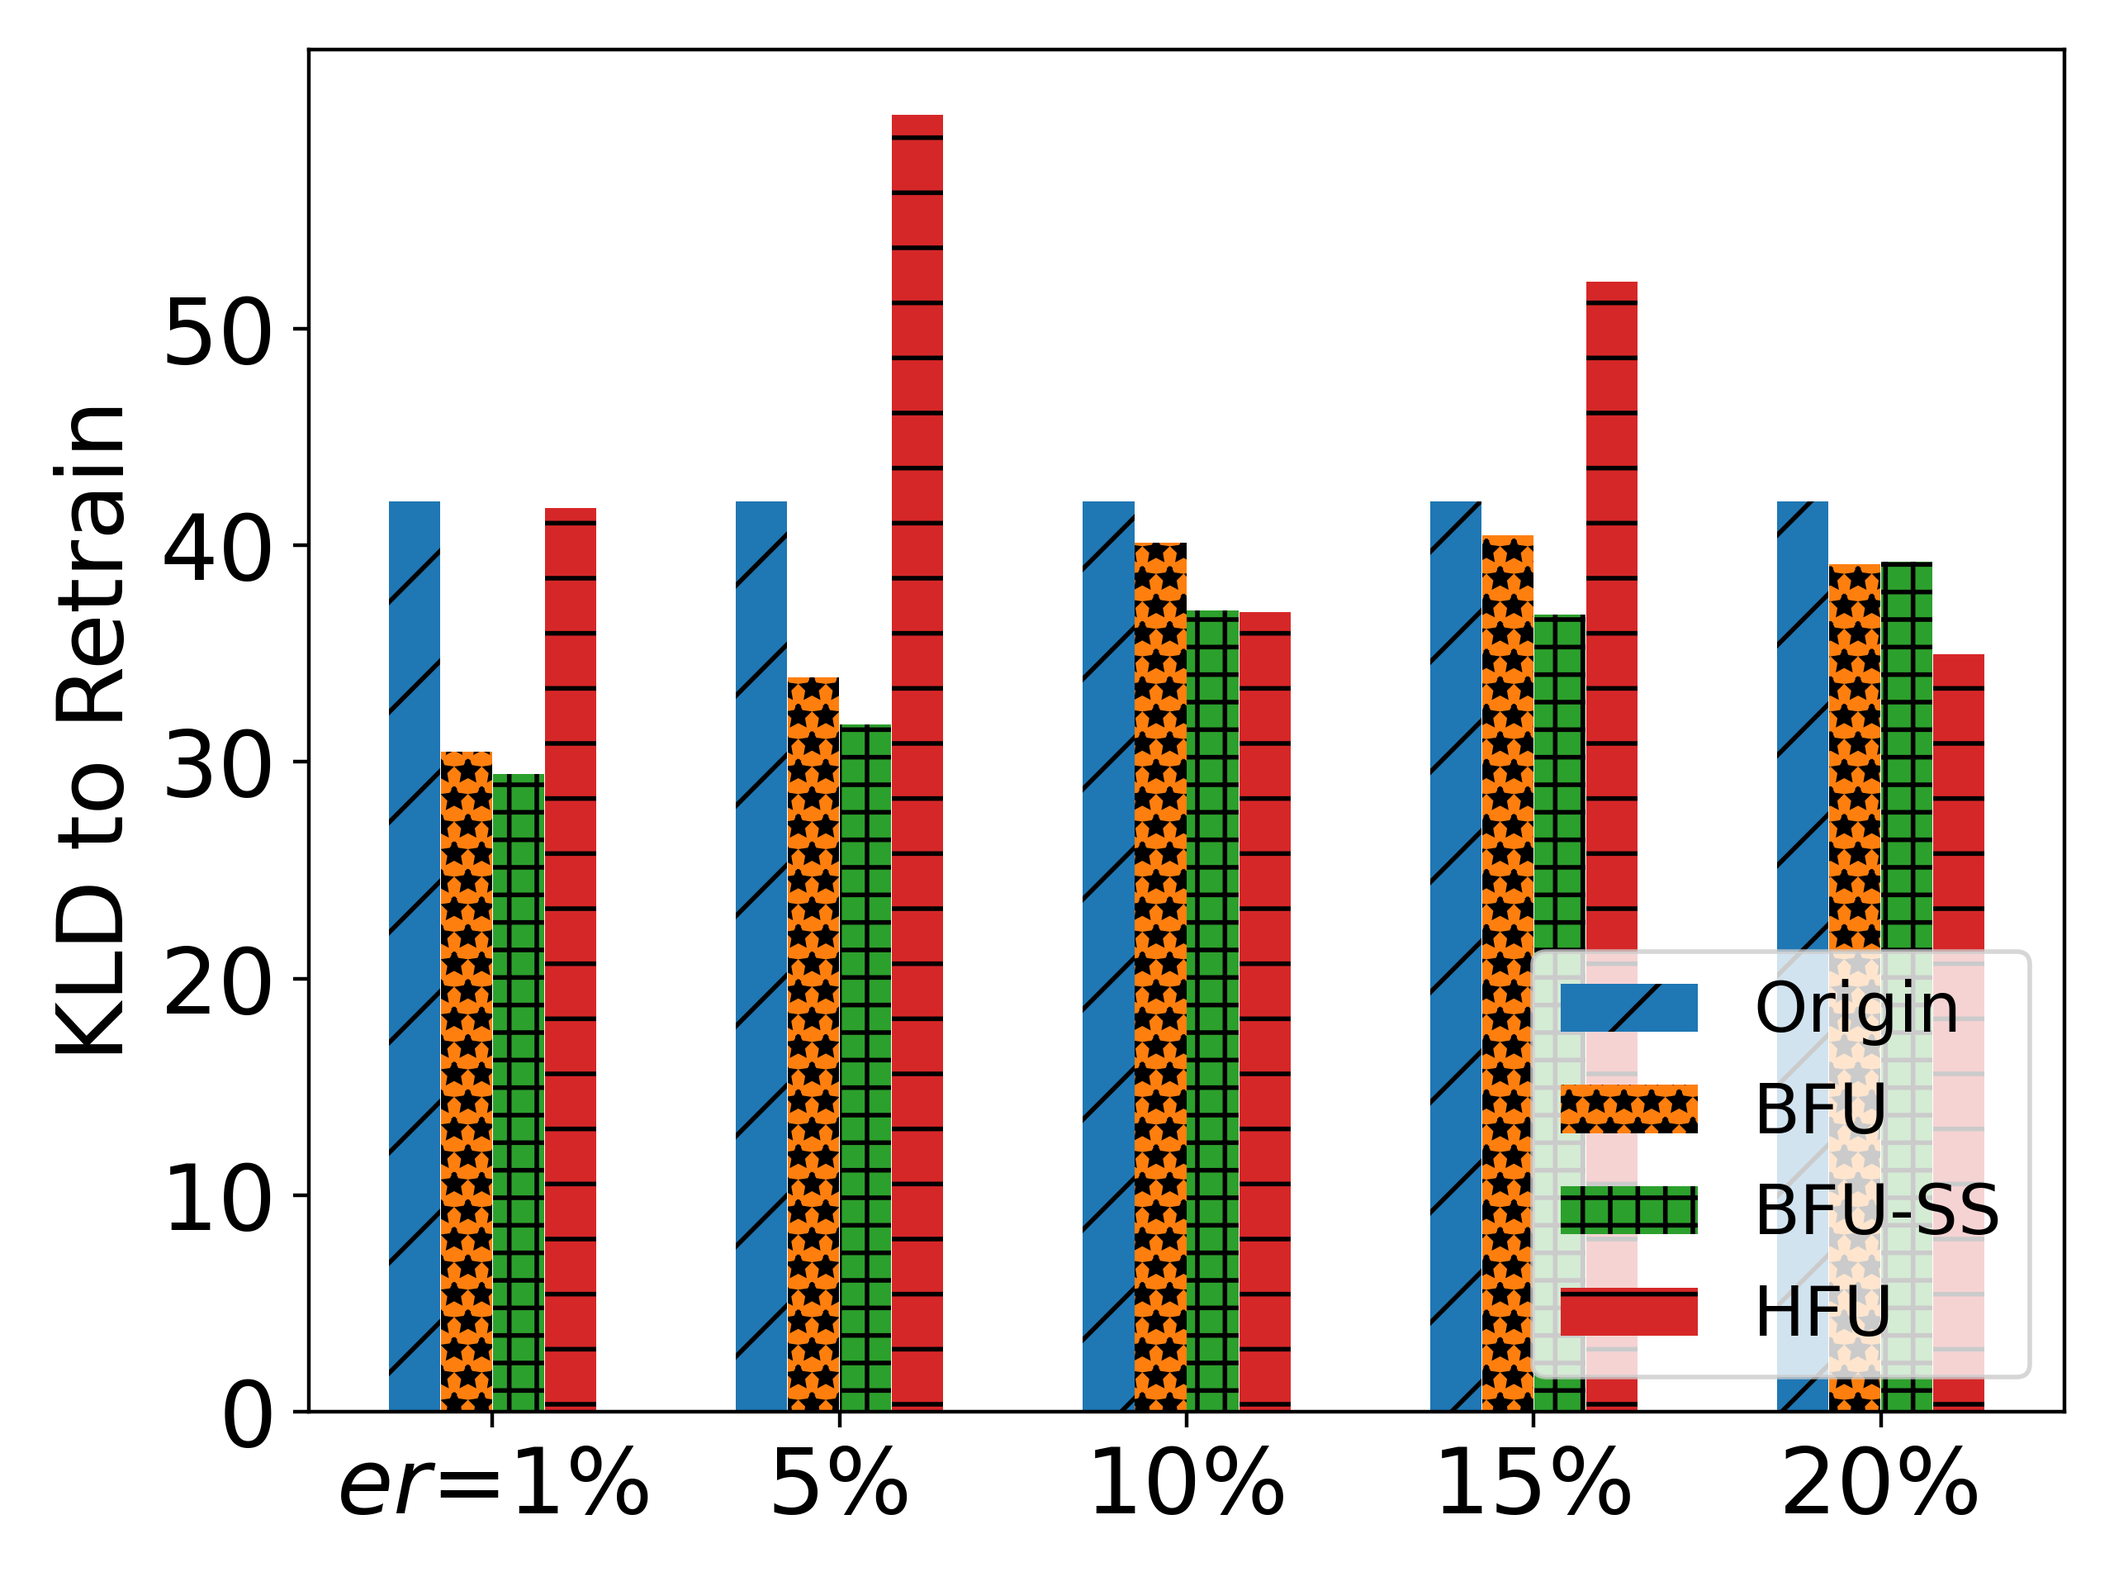
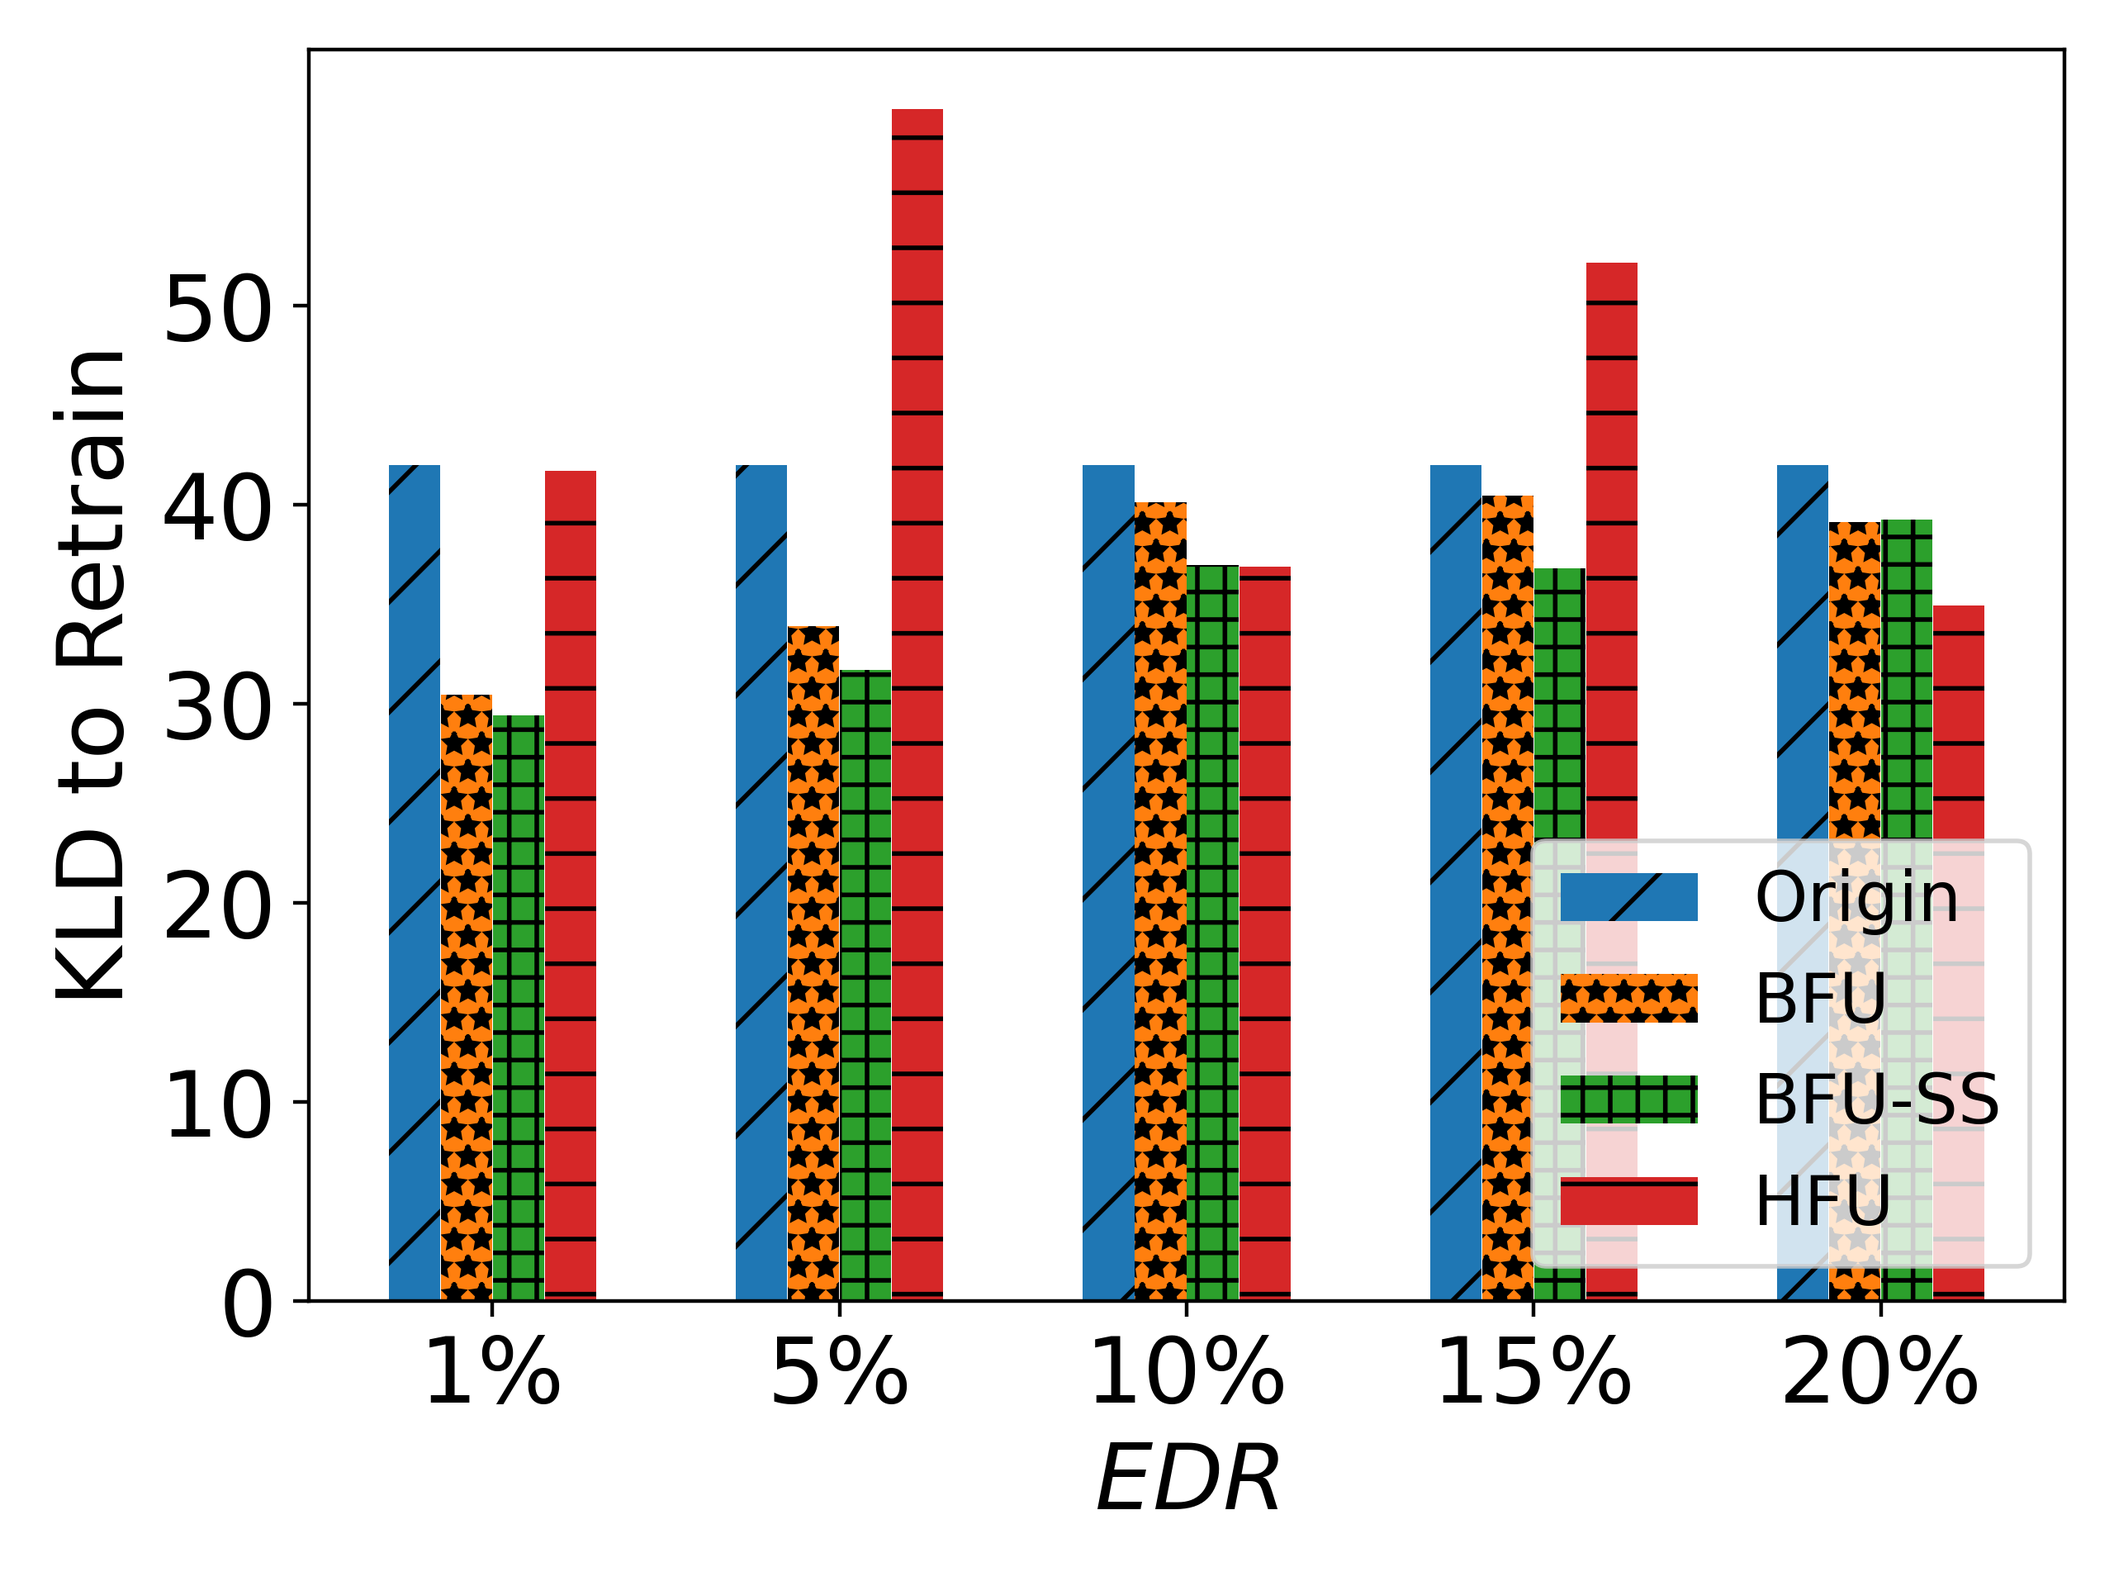
update

diff --git a/Experiment_results/MNIST/client/mnist_client_rt_er_bar.py b/Experiment_results/MNIST/client/mnist_client_rt_er_bar.py
@@ -2,11 +2,11 @@ import matplotlib.pyplot as plt
 import numpy as np
 
 # user num = 50
-labels = ['$er$=1%', '5%', '10%', '15%', '20%']
-unl_fr = [1*10, 1*10, 1*10, 1*10, 1*10]
-unl_br = [0.01*6, 0.05*10, 0.1*4, 0.15*4, 0.2*3]
-unl_self_r = [0.02*7, 0.1*10, 0.2*4, 0.3*4, 0.4*3]
-unl_hess_r = [1*3,  1*8, 9, 10, 10]
+labels = ['1%', '5%', '10%', '15%', '20%']
+unl_fr = [1*10*0.22, 1*10*0.22, 1*10*0.22, 1*10*0.22, 1*10*0.22]
+unl_br = [0.01*6*0.22, 0.05*10*0.22, 0.1*4*0.22, 0.15*4*0.22, 0.2*3*0.22]
+unl_self_r = [0.02*7*0.22, 0.1*10*0.22, 0.2*4*0.22, 0.3*4*0.22, 0.4*3*0.22]
+unl_hess_r = [1*3*0.22,  1*8*0.22, 9*0.22, 10*0.22, 10*0.22]
 
 x = np.arange(len(labels))  # the label locations
 width = 0.6  # the width of the bars
@@ -21,17 +21,17 @@ plt.bar(x - width / 8, unl_br, width=0.148, label='BFU', hatch='**')
 plt.bar(x + width / 8, unl_self_r, width=0.148, label='BFU-SS', hatch='++')
 plt.bar(x + width / 2 - width / 8, unl_hess_r, width=0.148, label='HFU', hatch='-')
 # Add some text for labels, title and custom x-axis tick labels, etc.
-plt.ylabel('Running Time', fontsize=20)
+plt.ylabel('Running Time (s)', fontsize=20)
 # ax.set_title('Performance of Different Users n')
 plt.xticks(x, labels, fontsize=20)
 # ax.set_xticklabels(labels,fontsize=15)
 
-my_y_ticks = np.arange(0, 11, 1)
+my_y_ticks = np.arange(0, 3, 0.5)
 plt.yticks(my_y_ticks, fontsize=20)
 # ax.set_yticklabels(my_y_ticks,fontsize=15)
 
 plt.legend(loc='upper right', fontsize=15)
-
+plt.xlabel('$\it{EDR}$' ,fontsize=20)
 # ax.bar_label(rects1, padding=1)
 # ax.bar_label(rects2, padding=3)
 # ax.bar_label(rects3, padding=3)

diff --git a/Experiment_results/MNIST/Server_runtime/mnist_rt_er_bar.py b/Experiment_results/MNIST/Server_runtime/mnist_rt_er_bar.py
@@ -2,11 +2,11 @@ import matplotlib.pyplot as plt
 import numpy as np
 
 # user num = 50
-labels = ['$er$=1%', '5%', '10%', '15%', '20%']
-unl_fr = [10, 10, 10, 10, 10]
-unl_br = [10, 9, 7, 4, 2]
-unl_self_r = [10, 9, 6, 4, 2]
-unl_hess_r = [9,  9, 9, 10, 5]
+labels = ['1%', '5%', '10%', '15%', '20%']
+unl_fr = [10*10*0.22 , 10*10*0.22, 10*10*0.22 , 10*10*0.22 , 10*10*0.22 ]
+unl_br = [10*10*0.22 , 9*10*0.22, 7*10*0.22, 4*10*0.22, 2*10*0.22]
+unl_self_r = [10*10*0.22, 9*10*0.22, 6*10*0.22, 4*10*0.22, 2*10*0.22]
+unl_hess_r = [9*10*0.22,  9*10*0.22, 9*10*0.22, 8*10*0.22, 5*10*0.22]
 
 x = np.arange(len(labels))  # the label locations
 width = 0.6  # the width of the bars
@@ -21,17 +21,17 @@ plt.bar(x - width / 8, unl_br, width=0.148, label='BFU', hatch='**')
 plt.bar(x + width / 8, unl_self_r, width=0.148, label='BFU-SS', hatch='++')
 plt.bar(x + width / 2 - width / 8, unl_hess_r, width=0.148, label='HFU', hatch='-')
 # Add some text for labels, title and custom x-axis tick labels, etc.
-plt.ylabel('Running Time', fontsize=20)
+plt.ylabel('Running Time (s)', fontsize=20)
 # ax.set_title('Performance of Different Users n')
 plt.xticks(x, labels, fontsize=20)
 # ax.set_xticklabels(labels,fontsize=15)
 
-my_y_ticks = np.arange(0, 11, 1)
+my_y_ticks = np.arange(0, 26, 4)
 plt.yticks(my_y_ticks, fontsize=20)
 # ax.set_yticklabels(my_y_ticks,fontsize=15)
 
-plt.legend(loc='upper right', fontsize=15)
-
+plt.legend(loc='lower left', fontsize=15)
+plt.xlabel('$\it{EDR}$' ,fontsize=20)
 # ax.bar_label(rects1, padding=1)
 # ax.bar_label(rects2, padding=3)
 # ax.bar_label(rects3, padding=3)

diff --git a/Experiment_results/MNIST/client/mnist_client_ur/mnist_client_rt_ur_bar.py b/Experiment_results/MNIST/client/mnist_client_ur/mnist_client_rt_ur_bar.py
@@ -2,12 +2,12 @@ import matplotlib.pyplot as plt
 import numpy as np
 
 # user num = 50
-labels = ['$\\beta$ = 0.1', '$\\beta$ = 0.5', '$\\beta$ = 1', '$\\beta$ = 1.5', '$\\beta$ = 2']
+labels = ['0.1', '0.5', '1', '1.5', '2']
 
-unl_fr = [1*10, 1*10, 1*10, 1*10, 1*10]
-unl_br = [0.1*4, 0.1*5, 0.1*5, 0.1*4, 0.1*5]
-unl_self_r = [0.2*4, 0.2*6, 0.2*7, 0.2*5, 0.2*6]
-unl_hess_r = [1*2,  1*2, 2, 2, 2]
+unl_fr = [10*0.22, 1*10*0.22, 1*10*0.22, 1*10*0.22, 1*10*0.22]
+unl_br = [0.1*3*0.22, 0.1*5*0.22, 0.1*5*0.22, 0.1*4*0.22, 0.1*5*0.22]
+unl_self_r = [0.2*3*0.22, 0.2*6*0.22, 0.2*7*0.22, 0.2*5*0.22, 0.2*6*0.22]
+unl_hess_r = [1*2*0.22,  1*2*0.22, 2*0.22, 2*0.22, 2*0.22]
 
 x = np.arange(len(labels))  # the label locations
 width = 0.6  # the width of the bars
@@ -22,15 +22,15 @@ plt.bar(x - width / 8, unl_br, width=0.148, label='BFU', hatch='**')
 plt.bar(x + width / 8, unl_self_r, width=0.148, label='BFU-SS', hatch='++')
 plt.bar(x + width / 2 - width / 8, unl_hess_r, width=0.148, label='HFU', hatch='-')
 # Add some text for labels, title and custom x-axis tick labels, etc.
-plt.ylabel('Running Time', fontsize=20)
+plt.ylabel('Running Time (s)', fontsize=20)
 # ax.set_title('Performance of Different Users n')
 plt.xticks(x, labels, fontsize=20)
 # ax.set_xticklabels(labels,fontsize=15)
 
-my_y_ticks = np.arange(0, 11, 1)
+my_y_ticks = np.arange(0, 3, 0.5)
 plt.yticks(my_y_ticks, fontsize=20)
 # ax.set_yticklabels(my_y_ticks,fontsize=15)
-
+plt.xlabel('$\\beta$' ,fontsize=20)
 plt.legend(loc='upper right', fontsize=15)
 
 # ax.bar_label(rects1, padding=1)

diff --git a/Experiment_results/MNIST/Server_runtime/mnist_rt_ur_bar.py b/Experiment_results/MNIST/Server_runtime/mnist_rt_ur_bar.py
@@ -2,10 +2,10 @@ import matplotlib.pyplot as plt
 import numpy as np
 
 # user num = 50
-labels = ['$\\beta$ = 0.1', '$\\beta$ = 0.5', '$\\beta$ = 1', '$\\beta$ = 1.5', '$\\beta$ = 2']
-unl_fr = [10, 10, 10, 10, 10]
-unl_br = [7, 5, 5, 3, 2, ]
-unl_self_r = [6, 4, 4, 3, 2]
+labels = ['0.1', '0.5', '1', '1.5', '2']
+unl_fr = [10*10*0.22, 10*10*0.22, 10*10*0.22, 10*10*0.22, 10*10*0.22]
+unl_br = [7*10*0.22, 5*10*0.22, 5*10*0.22, 3*10*0.22, 2*10*0.22, ]
+unl_self_r = [6*10*0.22, 4*10*0.22, 4*10*0.22, 3*10*0.22, 2*10*0.22]
 # unl_hess_r = [,  3, 9, 10]
 
 x = np.arange(len(labels))  # the label locations
@@ -21,17 +21,17 @@ plt.bar(x - 0, unl_br, width=0.148, label='BFU', hatch='**')
 plt.bar(x + width / 4, unl_self_r, width=0.148, label='BFU-SS', hatch='++')
 # plt.bar(x + width / 2 - width / 8, unl_hess_r, width=0.148, label='HFU', hatch='-')
 # Add some text for labels, title and custom x-axis tick labels, etc.
-plt.ylabel('Running Time', fontsize=20)
+plt.ylabel('Running Time (s)', fontsize=20)
 # ax.set_title('Performance of Different Users n')
 plt.xticks(x, labels, fontsize=20)
 # ax.set_xticklabels(labels,fontsize=15)
 
-my_y_ticks = np.arange(0, 11, 1)
+my_y_ticks = np.arange(0, 26, 4)
 plt.yticks(my_y_ticks, fontsize=20)
 # ax.set_yticklabels(my_y_ticks,fontsize=15)
 
 plt.legend(loc='upper right', fontsize=15)
-
+plt.xlabel('$\\beta$' ,fontsize=20)
 # ax.bar_label(rects1, padding=1)
 # ax.bar_label(rects2, padding=3)
 # ax.bar_label(rects3, padding=3)

diff --git a/Experiment_results/MNIST/Server_runtime/mnist_rt_ke_bar.py b/Experiment_results/MNIST/Server_runtime/mnist_rt_ke_bar.py
@@ -3,10 +3,10 @@ import numpy as np
 
 # user num = 50
 labels = ['$K_e$ = 1', '$K_e$ = 2', '$K_e$ = 3', '$K_e$ = 4', '$K_e$ = 5']
-unl_fr = [10, 10, 10, 10, 10]
-unl_br = [1, 4, 7, 3, 1]
-unl_self_r = [1, 3, 6, 2, 1]
-unl_hess_r = [1,  3, 9, 10, 10]
+unl_fr = [10*10*0.22, 10*10*0.22, 10*10*0.22, 10*10*0.22, 10*10*0.22]
+unl_br = [1*10*0.22, 4*10*0.22, 7*10*0.22, 3*10*0.22, 1*10*0.22]
+unl_self_r = [1*10*0.22, 3*10*0.22, 6*10*0.22, 2*10*0.22, 1*10*0.22]
+unl_hess_r = [1*10*0.22,  3*10*0.22, 9*10*0.22, 10*10*0.22, 10*10*0.22]
 
 x = np.arange(len(labels))  # the label locations
 width = 0.6  # the width of the bars
@@ -21,16 +21,16 @@ plt.bar(x - width / 8, unl_br, width=0.148, label='BFU', hatch='**')
 plt.bar(x + width / 8, unl_self_r, width=0.148, label='BFU-SS', hatch='++')
 plt.bar(x + width / 2 - width / 8, unl_hess_r, width=0.148, label='HFU', hatch='-')
 # Add some text for labels, title and custom x-axis tick labels, etc.
-plt.ylabel('Running Time', fontsize=20)
+plt.ylabel('Running Time (s)', fontsize=20)
 # ax.set_title('Performance of Different Users n')
 plt.xticks(x, labels, fontsize=20)
 # ax.set_xticklabels(labels,fontsize=15)
 
-my_y_ticks = np.arange(0, 11, 1)
+my_y_ticks = np.arange(0, 26, 4)
 plt.yticks(my_y_ticks, fontsize=20)
 # ax.set_yticklabels(my_y_ticks,fontsize=15)
 
-plt.legend(loc='lower right', fontsize=15)
+plt.legend(loc='upper left', fontsize=15)
 
 # ax.bar_label(rects1, padding=1)
 # ax.bar_label(rects2, padding=3)

diff --git a/Federated_learning/BackdoorFedUnl/BackdoorFedAvg.py b/Federated_learning/BackdoorFedUnl/BackdoorFedAvg.py
@@ -1179,7 +1179,7 @@ class LocalUpdate(object):
             net, optimizer = LocalUpdate.learning_train(self.ldr_train, net, step_start, self.loss_func, reconstruction_function,
                                              optimizer, args, epoch,idx)
             end = time.clock()
-            print("running time of one epoch", end - start)
+            #print("running time of one epoch", end - start)
             # net.eval()
         return net.state_dict()
 
@@ -2617,7 +2617,7 @@ if __name__ == '__main__':
     args.lr = 0.001
     args.erased_size = 1500 #120
     args.poison_portion = 0.0
-    args.erased_portion = 0.5
+    args.erased_portion = 0.4
     args.erased_local_r = 0.1
     ## in unlearning, we should make the unlearned model first be backdoored and then forget the trigger effect
     args.unlearn_learning_rate = 0.1

diff --git a/Experiment_results/MNIST/Server_backAcc/mnist_BackAcc_er_curve.py b/Experiment_results/MNIST/Server_backAcc/mnist_BackAcc_er_curve.py
@@ -12,7 +12,7 @@ x=[1, 2, 3, 4, 5]
 # attack_for_plt=[0, 0.3524, 0, 0.1762, 0.1762]
 # basic_for_plt=[99.8, 99.8, 99.8, 99.8, 99.8]
 
-labels = ['$er$=1%', '5%', '10%', '15%', '20%']
+labels = ['1%', '5%', '10%', '15%', '20%']
 unl_fr = [0.003, 0.003, 0.003, 0.003, 0.003]
 unl_br = [0.075, 0.088, 0.08, 0.078, 0.0872]
 unl_self_r = [0.084, 0.11, 0.084,0.052, 0.082]
@@ -46,10 +46,10 @@ plt.grid()
 leg = plt.legend(fancybox=True, shadow=True)
 # plt.xlabel('Malicious Client Ratio (%)' ,fontsize=16)
 plt.ylabel('Backdoor Accuracy (%)' ,fontsize=20)
-my_y_ticks = np.arange(0 ,20,2)
+my_y_ticks = np.arange(0 ,14,2)
 plt.yticks(my_y_ticks,fontsize=20)
 
-
+plt.xlabel('$\it{EDR}$' ,fontsize=20)
 plt.xticks(x, labels, fontsize=20)
 # plt.title('CIFAR10 IID')
 plt.legend(loc='best',fontsize=20)

diff --git a/Experiment_results/CIFAR10/Server_KLD/cifar10_KLD_er_bar.py b/Experiment_results/CIFAR10/Server_KLD/cifar10_KLD_er_bar.py
@@ -2,7 +2,7 @@ import matplotlib.pyplot as plt
 import numpy as np
 
 # user num = 50
-labels = ['$er$=1%', '5%', '10%', '15%', '20%']
+labels = ['1%', '5%', '10%', '15%', '20%']
 unl_fr = [21.98*42/21.98,  29.46 * 42/29.46  ,24.84 * 42/24.84 , 17.57*42/17.57, 26.22*42/26.22]
 unl_br = [15.94*42/21.98, 23.77 * 42/29.46   ,23.73* 42/24.84, 16.93*42/17.57, 24.43*42/26.22]
 unl_self_r = [15.40*42/21.98, 22.24 * 42/29.46 ,21.87* 42/24.84, 15.40*42/17.57, 24.50*42/26.22]
@@ -31,7 +31,7 @@ plt.yticks(my_y_ticks, fontsize=20)
 # ax.set_yticklabels(my_y_ticks,fontsize=15)
 
 plt.legend(loc='lower right', fontsize=15)
-
+plt.xlabel('$\it{EDR}$' ,fontsize=20)
 # ax.bar_label(rects1, padding=1)
 # ax.bar_label(rects2, padding=3)
 # ax.bar_label(rects3, padding=3)

diff --git a/Experiment_results/CIFAR10/client/cifar_client_acc_er_curve.py b/Experiment_results/CIFAR10/client/cifar_client_acc_er_curve.py
@@ -12,7 +12,7 @@ x=[1, 2, 3, 4, 5]
 # attack_for_plt=[0, 0.3524, 0, 0.1762, 0.1762]
 # basic_for_plt=[99.8, 99.8, 99.8, 99.8, 99.8]
 
-labels = ['$er$=1%', '5%', '10%', '15%', '20%']
+labels = ['1%', '5%', '10%', '15%', '20%']
 unl_fr = [99.9, 99.9, 99.9, 99.9, 99.9]
 unl_br = [59.99, 27.66, 15.39, 10.99, 9.59]
 unl_self_r = [75.99, 69.99, 67.39, 57.37, 58.19]
@@ -36,9 +36,9 @@ plt.grid()
 leg = plt.legend(fancybox=True, shadow=True)
 # plt.xlabel('Malicious Client Ratio (%)' ,fontsize=16)
 plt.ylabel('Accuracy (%)' ,fontsize=20)
-my_y_ticks = np.arange(80 ,101,5)
+my_y_ticks = np.arange(0 ,101,20)
 plt.yticks(my_y_ticks,fontsize=20)
-
+plt.xlabel('$\it{EDR}$' ,fontsize=20)
 
 plt.xticks(x, labels, fontsize=20)
 # plt.title('CIFAR10 IID')

diff --git a/Experiment_results/MNIST/Server_KLD/mnist_KLD_er_bar.py b/Experiment_results/MNIST/Server_KLD/mnist_KLD_er_bar.py
@@ -2,7 +2,7 @@ import matplotlib.pyplot as plt
 import numpy as np
 
 # user num = 50
-labels = ['$er$=1%', '5%', '10%', '15%', '20%']
+labels = ['1%', '5%', '10%', '15%', '20%']
 unl_fr = [201*238/201, 255 * 238/255 , 237*238/237, 290*238/290, 237*238/237]
 unl_br = [189*238/201, 253.25* 238/255, 233*238/237, 288.53*238/290, 244.7*238/237]
 unl_self_r = [189*238/201, 246* 238/255, 228*238/237, 291*238/290, 237*238/237]
@@ -29,7 +29,7 @@ plt.xticks(x, labels, fontsize=20)
 my_y_ticks = np.arange(0, 260, 50)
 plt.yticks(my_y_ticks, fontsize=20)
 # ax.set_yticklabels(my_y_ticks,fontsize=15)
-
+plt.xlabel('$\it{EDR}$' ,fontsize=20)
 plt.legend(loc='lower right', fontsize=15)
 
 # ax.bar_label(rects1, padding=1)

diff --git a/Experiment_results/CIFAR10/Server_KLD/cifar10_KLD_ur_bar.py b/Experiment_results/CIFAR10/Server_KLD/cifar10_KLD_ur_bar.py
@@ -2,7 +2,7 @@ import matplotlib.pyplot as plt
 import numpy as np
 
 # user num = 50
-labels = ['$\\beta$ = 0.01', '0.05', '0.1', '0.15', '0.2']
+labels = ['0.01', '0.05', '0.1', '0.15', '0.2']
 unl_fr = [22*42/22,  32.37 * 42/32.37  ,42 * 42/42 , 26.49*42/26.49, 21.46*42/21.46 ]
 unl_br = [20.31*42/22, 24.77 * 42/32.37   ,41.04* 42/42, 22.97*42/26.49, 16.70*42/21.46]
 unl_self_r = [18.76*42/22, 25 * 42/32.37 ,41.16* 42/42, 22.78*42/26.49, 18.06*42/21.46 ]
@@ -36,6 +36,7 @@ plt.legend(loc='lower right', fontsize=15)
 # ax.bar_label(rects2, padding=3)
 # ax.bar_label(rects3, padding=3)
 
+plt.xlabel('$\\beta$' ,fontsize=20)
 plt.tight_layout()
 
 plt.rcParams['figure.figsize'] = (2.0, 1)

diff --git a/Experiment_results/MNIST/Server_KLD/mnist_KLD_ur_bar.py b/Experiment_results/MNIST/Server_KLD/mnist_KLD_ur_bar.py
@@ -2,7 +2,7 @@ import matplotlib.pyplot as plt
 import numpy as np
 
 # user num = 50
-labels = ['$\\beta$ = 0.1', '$\\beta$ = 0.5', '$\\beta$ = 1', '$\\beta$ = 1.5', '$\\beta$ = 2']
+labels = ['0.1', '0.5', '1', '1.5', '2']
 
 unl_fr = [237*238/237, 302*238/302, 329 * 238/329 , 281*238/281, 234*238/234 ]
 unl_br = [233*238/237, 309*238/302, 333.25* 238/329, 311*238/281, 245.53*238/234 ]
@@ -32,7 +32,7 @@ plt.yticks(my_y_ticks, fontsize=20)
 # ax.set_yticklabels(my_y_ticks,fontsize=15)
 
 plt.legend(loc='lower right', fontsize=15)
-
+plt.xlabel('$\\beta$' ,fontsize=20)
 # ax.bar_label(rects1, padding=1)
 # ax.bar_label(rects2, padding=3)
 # ax.bar_label(rects3, padding=3)
